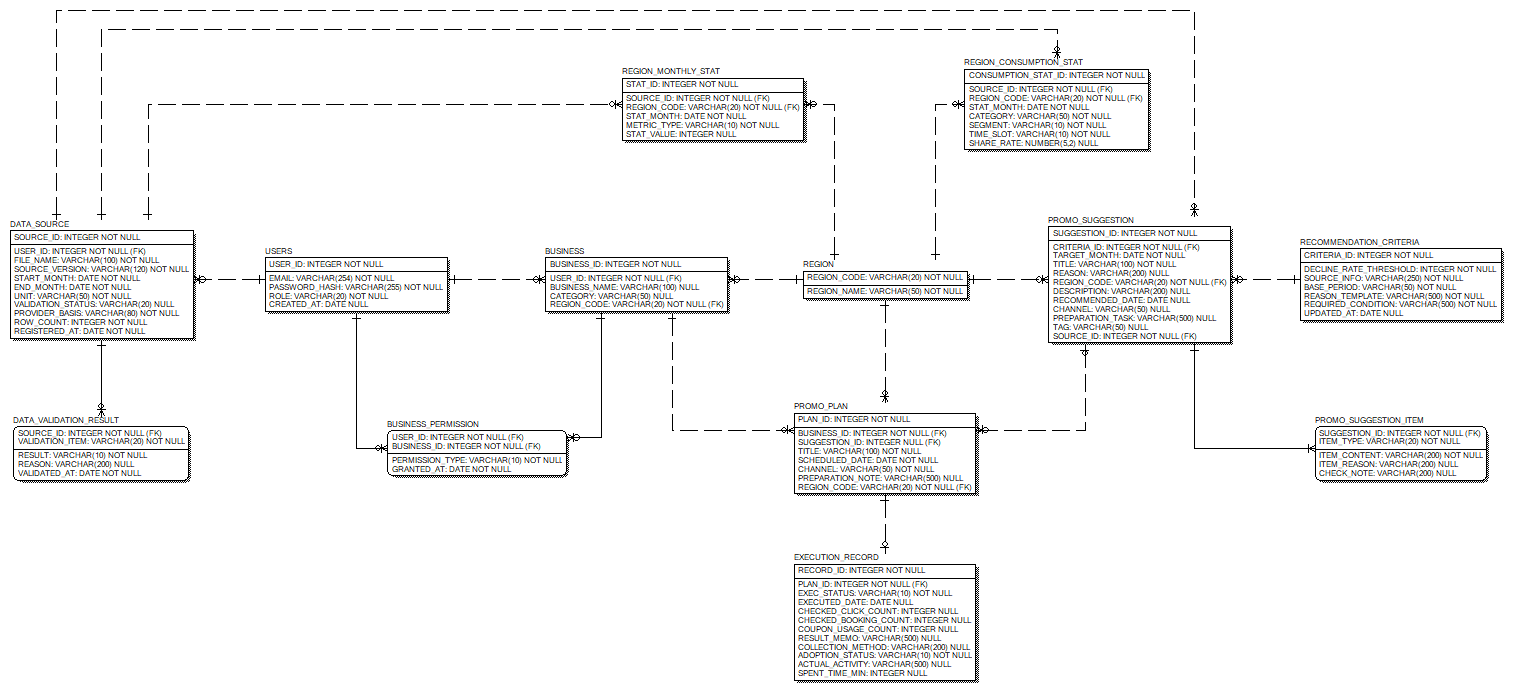
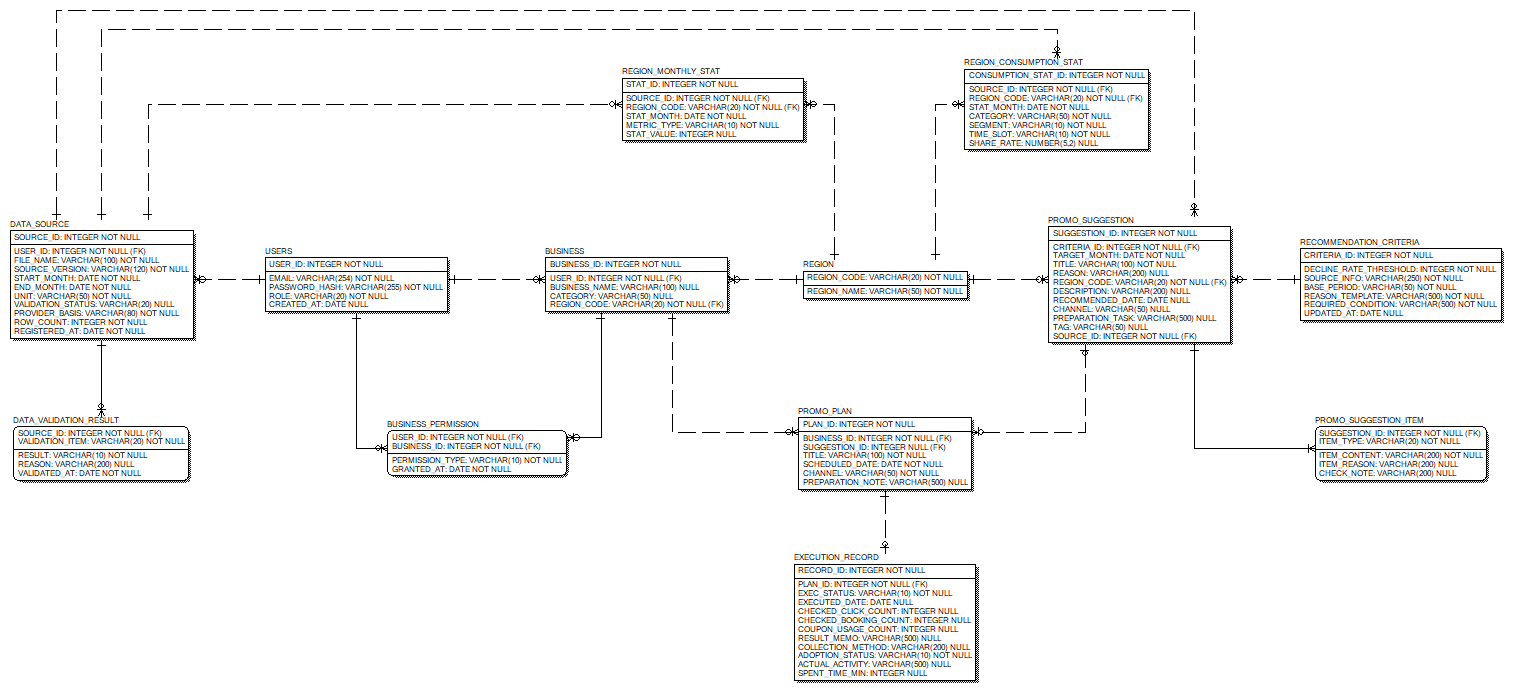
Drop the plan region so plans follow the business region
Review item 10 asked to keep PROMO_PLAN.REGION_CODE only if plans may
target a region other than the business location. The earlier rationale
was wrong: the prototype stores the plan region from the same variable
that labels the shop in the header, so it never models a plan for
another region, and the screen spec treats region selection as an
analysis filter only. With BUSINESS.REGION_CODE now NOT NULL the column
was a transitive dependency, so the team decided to remove it. Deleting
the PlanRegion relationship also removes the migrated column, its FK
index key and the business-rule definition added earlier. The guide asks
the program to accept only suggestions from the business's own region.

Constraint: Team decision (2026-10-11) not to allow plans for another region
Rejected: Keeping the column with a business rule | no screen or scope item needs it and it allows plan and business regions to disagree
Confidence: high
Scope-risk: narrow
[…]

Changed region(s): [[0.4947, 0.5783, 0.6493, 0.7304]]

diff --git a/04_아키텍처/ERD/ERD_프로토타입_대조_가이드.md b/04_아키텍처/ERD/ERD_프로토타입_대조_가이드.md
@@ -9,7 +9,7 @@
 
 > **반영 상태 (2026-10-11)** P1부터 P27까지 모두 [Red_ERD.erwin](Red_ERD.erwin)에 반영함 팀 결정 항목(P2, P8, P15, P17, P22, E)을 어떻게 정했는지는 [ERD 수정 내역 1.3](ERD_수정_내역.md#13-프로토타입-대조-가이드-반영)에 적음 아래 표의 '지금 상태'는 이 문서를 쓴 2026-10-10의 상태임
 >
-> **3차 수정 (2026-10-11)** ERD 검토 보고서를 반영하면서 이 문서와 관련된 결정 몇 가지가 바뀌었음 Q4의 소요 시간은 홍보 계획이 아니라 실행 결과 기록에 두고, Q6의 월 값은 모두 DATE로 바꿈 P27에서 NULL 허용으로 두었던 사업체와 홍보 제안의 지역 코드는 NOT NULL로 바꿈 엔터티 이름 '3개월 홍보 일정'은 '홍보 계획', '자료 등록 현황'은 '등록 자료', '추천기준'은 '추천 기준'이 됨 아래 표의 '권장 날짜'는 '권장 일자'로 이름이 바뀜 자세한 내용은 [ERD 수정 내역 0장](ERD_수정_내역.md#0-3차-수정-검토-보고서-반영)에 적음
+> **3차 수정 (2026-10-11)** ERD 검토 보고서를 반영하면서 이 문서와 관련된 결정 몇 가지가 바뀌었음 Q4의 소요 시간은 홍보 계획이 아니라 실행 결과 기록에 두고, Q6의 월 값은 모두 DATE로 바꿈 P27에서 NULL 허용으로 두었던 사업체와 홍보 제안의 지역 코드는 NOT NULL로 바꿈 엔터티 이름 '3개월 홍보 일정'은 '홍보 계획', '자료 등록 현황'은 '등록 자료', '추천기준'은 '추천 기준'이 됨 아래 표의 '권장 날짜'는 '권장 일자'로 이름이 바뀜 P22에서 더한 홍보 계획의 지역 코드는 검토 의견에 따라 지웠고, 계획의 지역은 사업체 지역을 따름 자세한 내용은 [ERD 수정 내역 0장](ERD_수정_내역.md#0-3차-수정-검토-보고서-반영)에 적음
 
 ## 0. 이 문서 읽는 법
 
